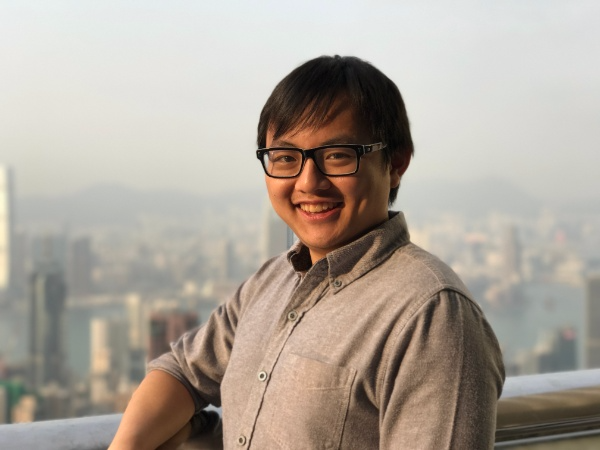
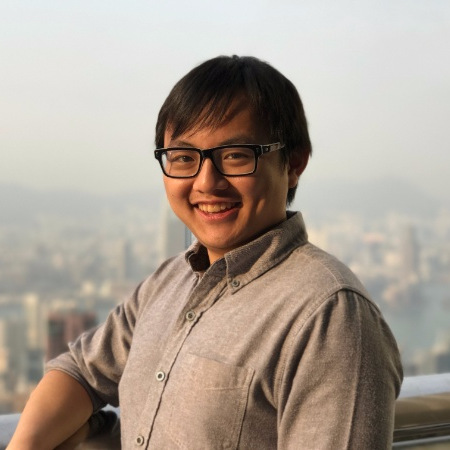
Resized image

diff --git a/client/public/style.css b/client/public/style.css
@@ -7,8 +7,7 @@ body{
 
 .image{
   flex: 1;
-  max-height: 200px;
-  max-width: 200px;
+  max-width: 20%;
   border-radius: 50%;
 }
 
